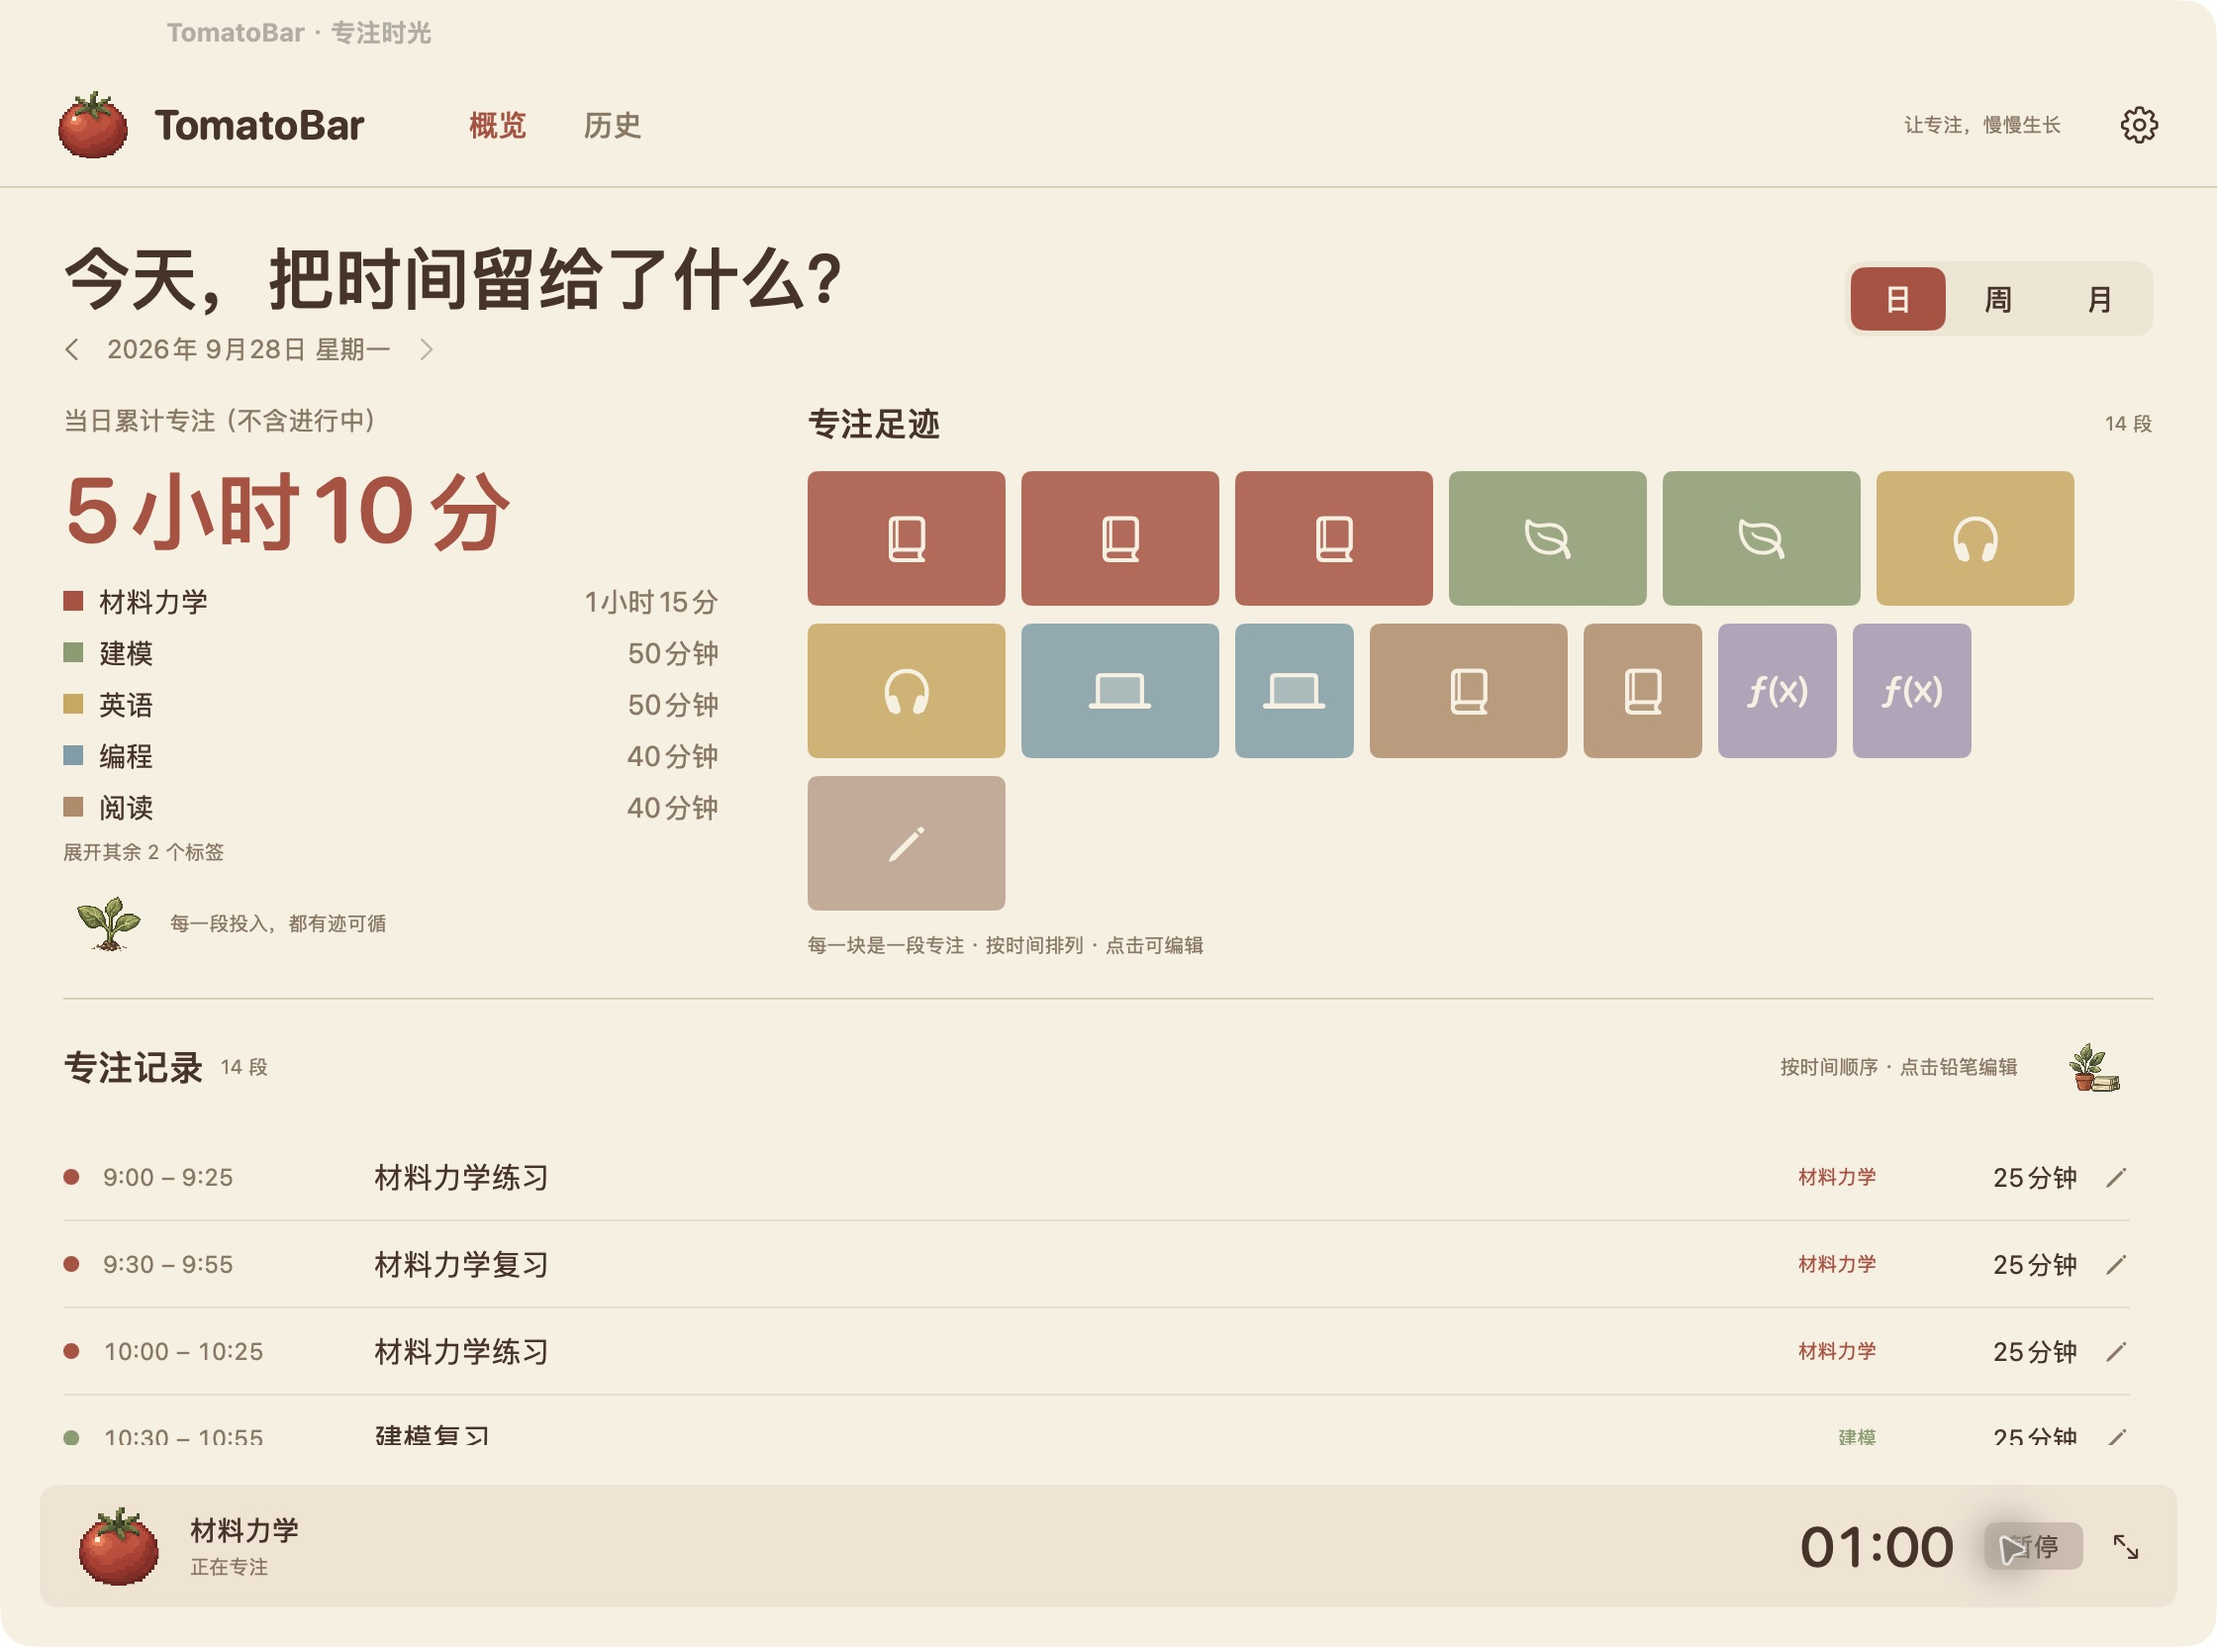
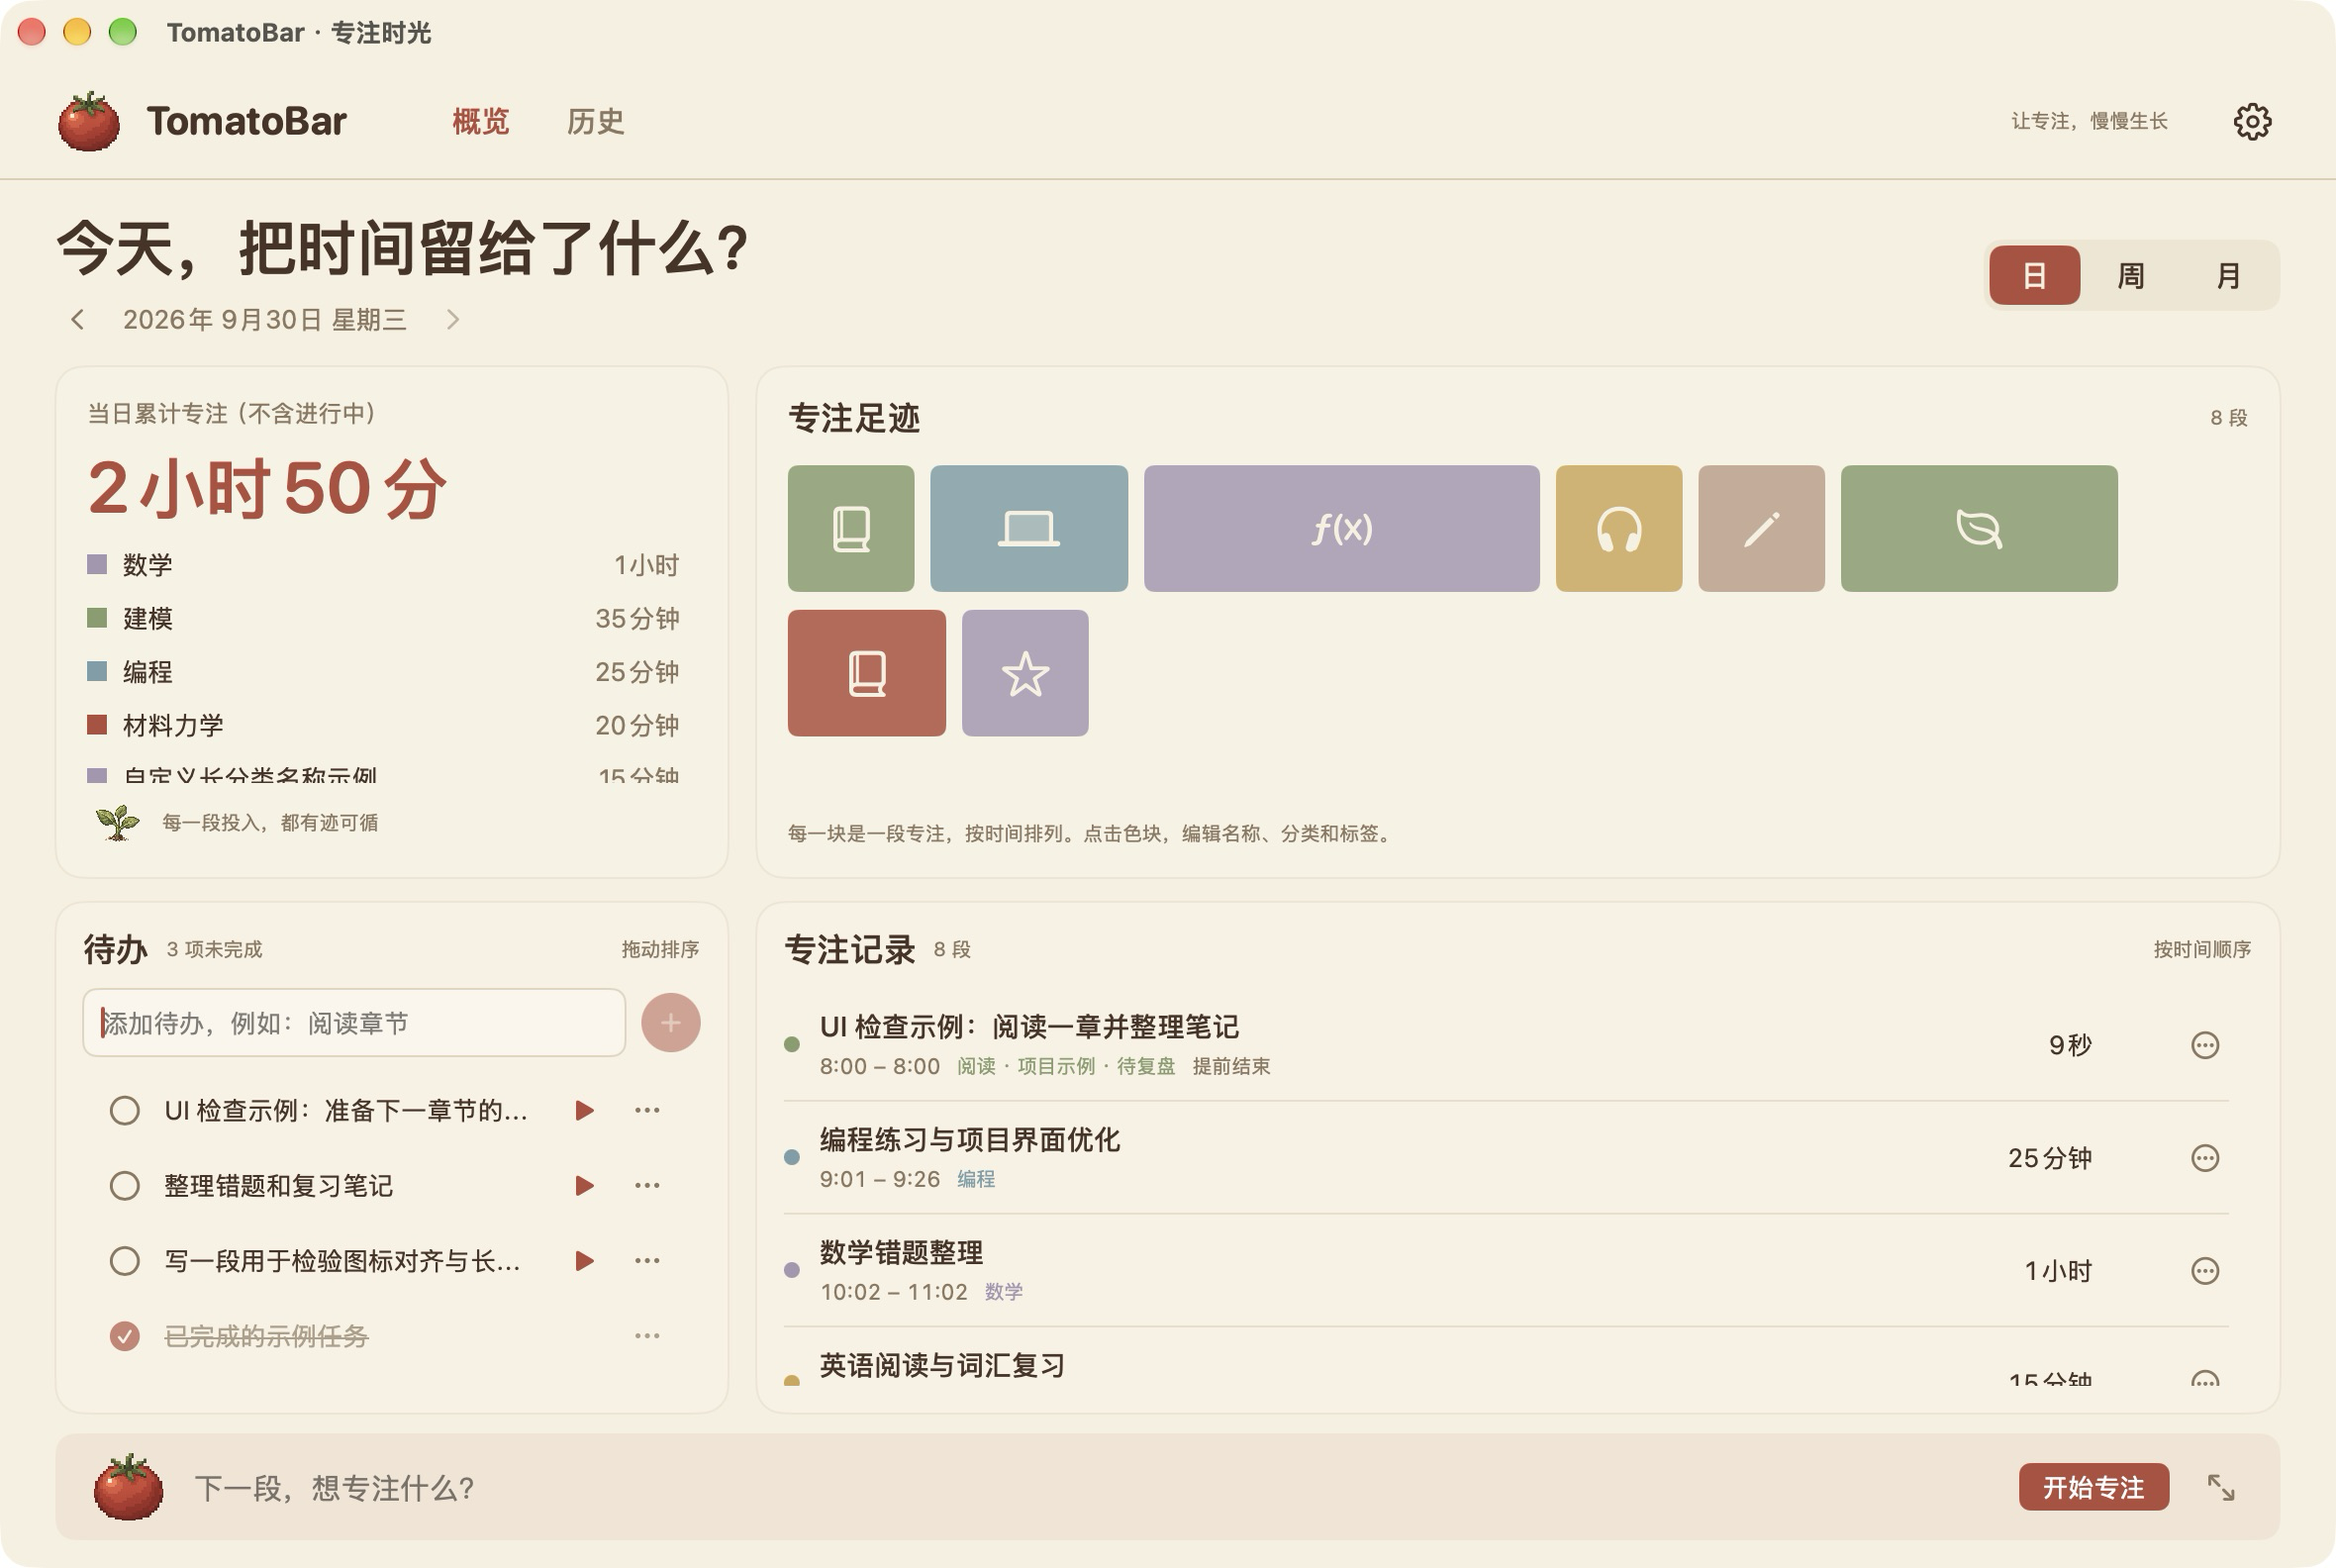
Release Personal V1.3.1 with universal build and current UI

diff --git a/site/index.html b/site/index.html
@@ -73,11 +73,11 @@ footer .links{display:flex;gap:18px;justify-content:center;margin-bottom:8px;fle
     <h1>让专注，<em>慢慢生长</em></h1>
     <p class="sub">完全无声的 macOS 菜单栏番茄钟。每一段专注都留下名字与分类，日／周／月随时回顾时间去向。</p>
     <div class="pills">
-      <span>macOS 12.3+</span><span>Apple Silicon &amp; Intel</span><span>约 3 MB</span><span>MIT 开源</span><span>数据不离开本机</span>
+      <span>macOS 12.3+</span><span>Apple Silicon &amp; Intel</span><span>约 4 MB</span><span>MIT 开源</span><span>数据不离开本机</span>
     </div>
     <div class="dl">
-      <a class="btn primary" id="btn-dmg" href="https://github.com/mikilolipop/TomatoBar-Personal/releases/download/v3.9.0/TomatoBarPersonal-3.9.0.dmg">下载 .dmg <small id="dmg-size"></small></a>
-      <a class="btn ghost" id="btn-zip" href="https://github.com/mikilolipop/TomatoBar-Personal/releases/download/v3.9.0/TomatoBarPersonal-3.9.0.zip">下载 .zip <small id="zip-size"></small></a>
+      <a class="btn primary" id="btn-dmg" href="https://github.com/mikilolipop/TomatoBar-Personal/releases/download/v3.9.1/TomatoBarPersonal-3.9.1.dmg">下载 .dmg <small id="dmg-size"></small></a>
+      <a class="btn ghost" id="btn-zip" href="https://github.com/mikilolipop/TomatoBar-Personal/releases/download/v3.9.1/TomatoBarPersonal-3.9.1.zip">下载 .zip <small id="zip-size"></small></a>
     </div>
     <div class="dlmeta" id="dl-meta"><a href="https://github.com/mikilolipop/TomatoBar-Personal/releases/latest">查看全部版本与更新说明 →</a></div>
   </div>
@@ -112,7 +112,7 @@ footer .links{display:flex;gap:18px;justify-content:center;margin-bottom:8px;fle
     <div class="links">
       <a href="https://github.com/mikilolipop/TomatoBar-Personal">源码仓库</a>
       <a href="https://github.com/mikilolipop/TomatoBar-Personal/releases">发布记录</a>
-      <a href="https://github.com/mikilolipop/TomatoBar-Personal/blob/feature/personal-focus/docs/V1.3%E6%9B%B4%E6%96%B0%E8%AF%B4%E6%98%8E.md">更新说明</a>
+      <a href="https://github.com/mikilolipop/TomatoBar-Personal/blob/feature/personal-focus/docs/V1.3.1%E6%9B%B4%E6%96%B0%E8%AF%B4%E6%98%8E.md">更新说明</a>
       <a href="https://github.com/ivoronin/TomatoBar">上游 TomatoBar</a>
     </div>
     <p>基于 <a href="https://github.com/ivoronin/TomatoBar">ivoronin/TomatoBar</a>（MIT）的个人定制 fork · 本仓库与全部改动同为 MIT 许可</p>

diff --git a/TomatoBar/MainWindow.swift b/TomatoBar/MainWindow.swift
@@ -703,7 +703,7 @@ struct MainSettings: View {
                 if let notice = easterEggNotice {
                     Text(notice).font(.caption).foregroundColor(Garden.muted).transition(.opacity)
                 }
-                Text("Personal · V1.3")
+                Text("Personal · \(Bundle.main.object(forInfoDictionaryKey: "CFBundleShortVersionString") as? String ?? "—")")
                     .font(.caption).foregroundColor(Garden.muted)
                     .contentShape(Rectangle())
                     .onTapGesture { registerEasterEggTap() }

diff --git a/docs/V1.3.1更新说明.md b/docs/V1.3.1更新说明.md
@@ -1,0 +1,54 @@
+# TomatoBar Personal V1.3.1
+
+发布日期：2026-10-01。内部版本 **3.9.1**，build **2**。
+
+本版汇总 V1.3 发布后的待办、分类配色、计时和存储修复，以及本轮通过 Computer Use 实机检查的 UI 精修。
+设置页从应用元数据读取实际版本号，避免安装副本与开发构建都显示旧标签。
+
+## 更新内容
+
+- 待办清单：添加、重命名、完成、排序，以及带入或直接开始下一段专注。
+- 分类样式：可调整分类图标和颜色，主分类负责统计归属，其他标签负责搜索与筛选。
+- 时长可直接输入数字，专注/短休息/长休息/每组四行输入框对齐。
+- 日概览随窗口分配卡片空间，色块不再裁掉第二行；月历为实际行数预留空间，六行月份不再覆盖记录区。
+- 概览记录名称与时间/标签分为两行，改善小窗口的可读性。
+- 待办播放、勾选、更多、编辑、日期切换和展开图标统一比例与点击区域。
+- 主窗口与菜单栏记录编辑器统一配色和分类下拉样式；菜单栏编辑时留出完整表单空间。
+- 展开计时按钮和无声完成提醒使用当前界面配色；搜索无结果时提示调整关键词或筛选。
+- 运行中的专注可以取消；取消确认期间冻结计时，安全返回恢复原先暂停状态。
+- 包含近期存储重试退避、结束时落盘、同一记录编辑冲突、跨窗口筛选及计时边界修复。
+
+本地记录格式及 Bundle ID 保持兼容，安装更新后沿用已有记录、待办和设置。
+
+## 下载与安装
+
+前往 [V1.3.1 Release](https://github.com/mikilolipop/TomatoBar-Personal/releases/tag/v3.9.1)。
+
+| 文件 | 用法 |
+|---|---|
+| `TomatoBarPersonal-3.9.1.dmg` | 打开后将应用拖到 Applications |
+| `TomatoBarPersonal-3.9.1.zip` | 解压后将应用放入 Applications |
+
+两个下载包均包含 **arm64 + x86_64**，要求 macOS 12.3 以上。本机 Apple Silicon 已实际启动验收，Intel 未实机验收。
+公开下载包使用 ad-hoc 签名，未做公证；本机正式安装保留项目的 Automatic Personal Team 开发签名。
+
+更新前正常退出正在运行的 TomatoBar Personal，再替换安装目录中的同名应用。
+源码构建使用 `scripts/build.sh`，默认生成双架构 Release 并校验签名。
+
+## 验证
+
+- 214 项领域检查、40 项真实 TBTimer 桥接检查、8 项合成启动事件检查通过。
+- 双架构 Release 构建及严格签名校验通过。
+- DMG 校验和、只读挂载、应用签名及 Applications 链接检查通过；ZIP 解压后的应用签名和可执行文件核对通过。
+- 正式安装后的运行路径、设置页版本号和历史展示已检查；安装前后已有记录、待办与分类样式逐项一致。
+- UI 检查步骤与边界见 [2026-09-30 UI 精细化检查](UI精细化检查-2026-09-30.md)。
+
+8 项启动检查是合成事件，不能代替真实登录/Dock/Space 验收。原生确认框与菜单的截图受限，
+完整 VoiceOver、键盘遍历、对比度及其他屏幕缩放设置尚未验收。
+
+## SHA-256
+
+```text
+ac6a827d9accffac7ccdedee4e8a3244abbc19287ab49abbd54990c3f202240e  TomatoBarPersonal-3.9.1.dmg
+2b8c0904ab1a4694fd3df8b70758ecb81a2ec57b03ad687aaf64bcea25731765  TomatoBarPersonal-3.9.1.zip
+```
